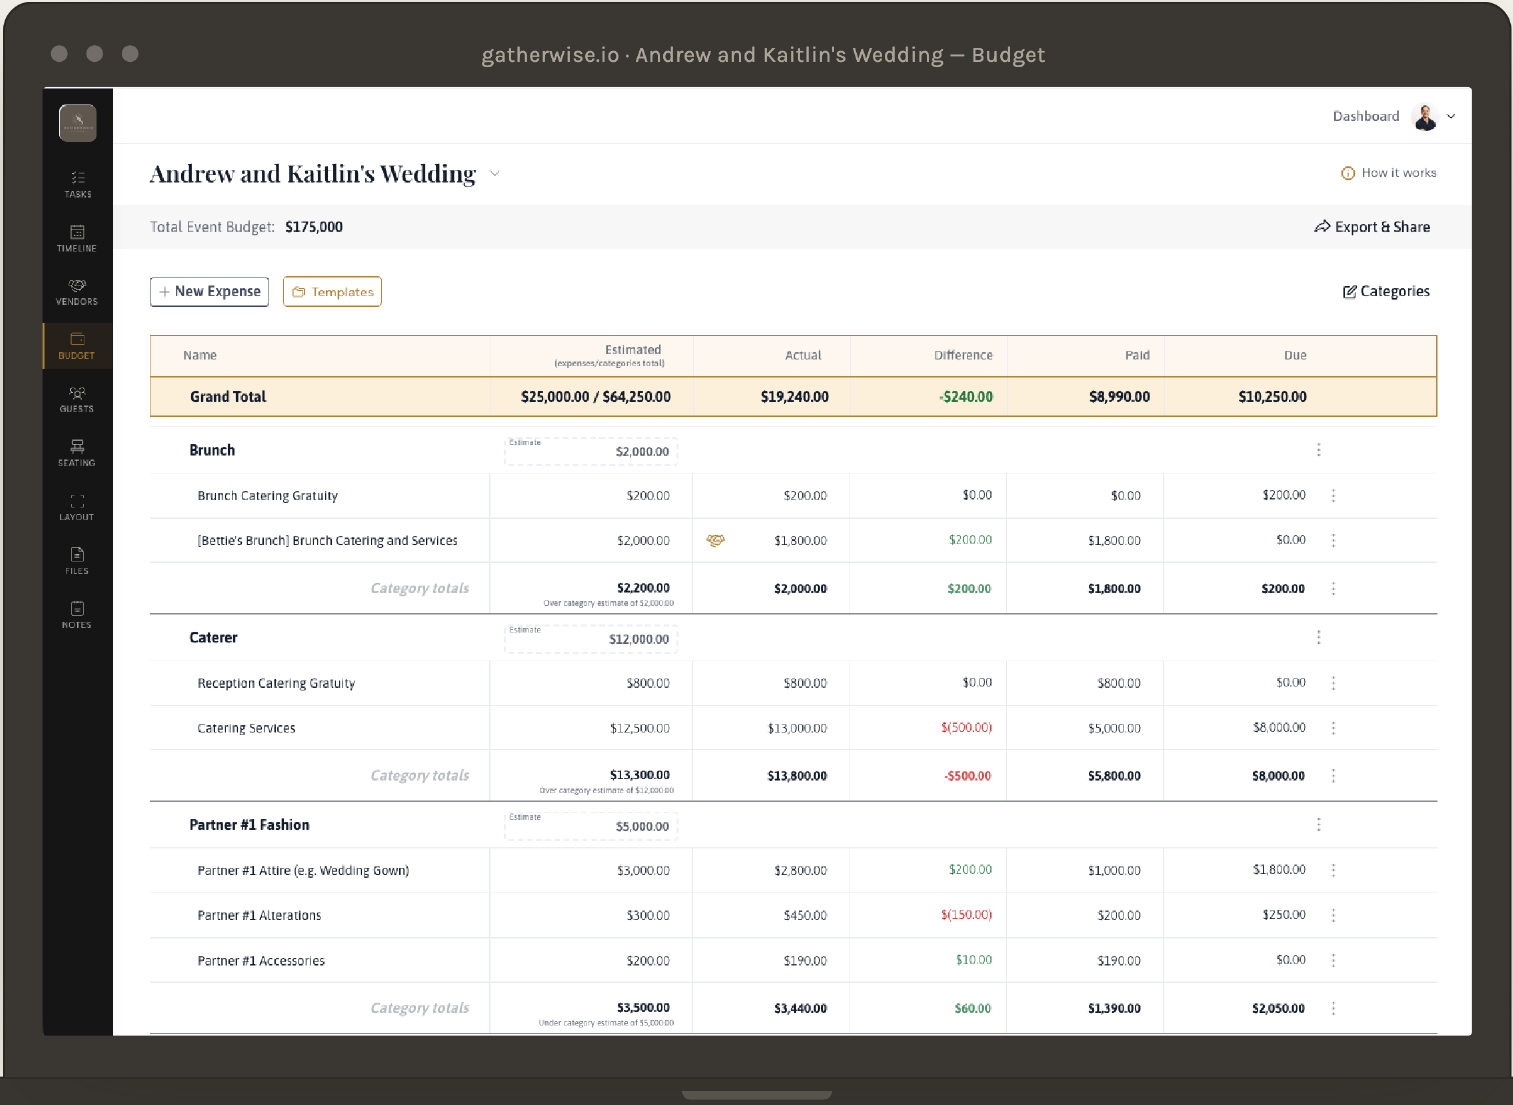
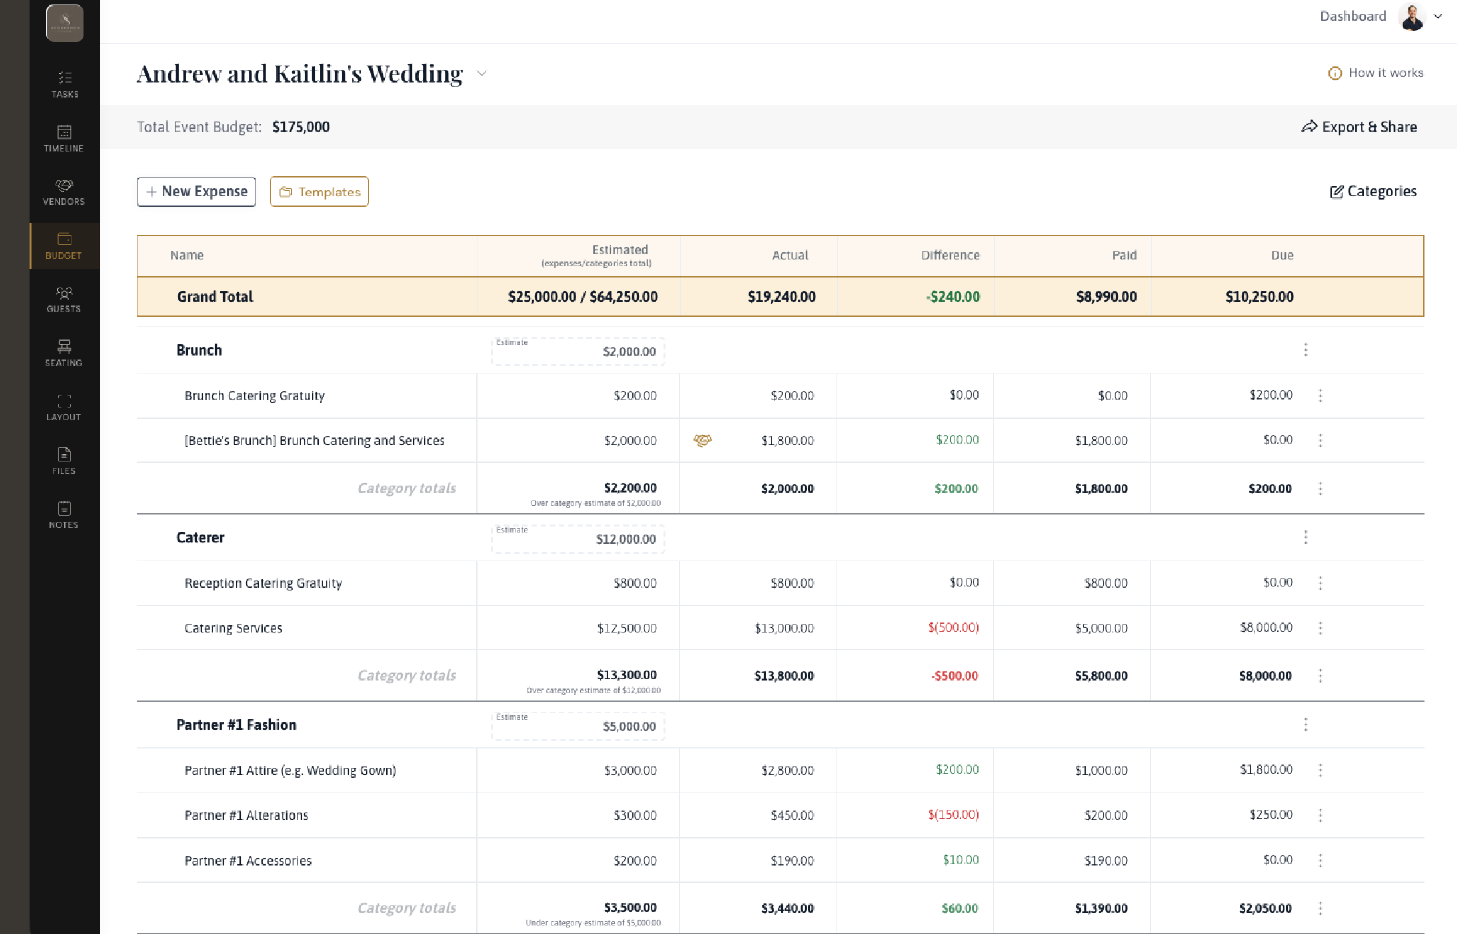
Crop laptop chrome from screenshots, move hero image beside the headline
- Re-cropped the four screenshots that had a baked-in browser/laptop
  mockup (seating, invoicing, budget, exports) down to just the app
  content, removing the surrounding chrome entirely.
- Restructured FeaturePage.tsx so the screenshot sits beside the
  headline in a two-column hero grid, matching the Timeline page,
  instead of a separate full-width showcase section further down.
  Every image now gets the same bordered-panel treatment (no more
  hasDesktopChrome branching, since none of them carry baked-in
  chrome anymore).

Claude-Session: https://claude.ai/code/session_01TEdLNtAhqta4EpWh8ZjWLY

diff --git a/app/features/FeaturePage.tsx b/app/features/FeaturePage.tsx
@@ -28,9 +28,6 @@ export type FeaturePageProps = {
   intro: string;
   screenshotSrc: string;
   screenshotAlt: string;
-  /** True when the screenshot already shows its own browser/laptop chrome —
-   * skips the added dark frame so it doesn't double up on window chrome. */
-  hasDesktopChrome?: boolean;
   details: FeatureDetail[];
 };
 
@@ -44,7 +41,6 @@ export default function FeaturePage({
   intro,
   screenshotSrc,
   screenshotAlt,
-  hasDesktopChrome = false,
   details,
 }: FeaturePageProps) {
   return (
@@ -76,34 +72,29 @@ export default function FeaturePage({
 
       <main>
         <section className={styles.hero}>
-          <div className={styles.wide}>
-            <div className={styles.eyebrow}>{eyebrow}</div>
-            <h1 className={styles.heroTitle}>{title}</h1>
-            <p className={styles.heroLede}>{intro}</p>
-            <div className={styles.heroActions}>
-              <a
-                href="https://app.gatherwise.io/login?m=signup"
-                className={styles.btnPrimaryLarge}
-              >
-                Start free trial
-              </a>
-              <a
-                href="https://calendly.com/alex-gatherwise/30min"
-                className={styles.btnGhost}
-                style={{ color: "var(--gw-ink)", borderColor: "rgb(var(--gw-ink-rgb) / 0.35)" }}
-              >
-                Talk to a human first
-              </a>
-            </div>
-          </div>
-        </section>
-
-        <section className={styles.showcase}>
-          <div className={styles.wide}>
-            <div className={styles.showcaseInner}>
-              <div className={hasDesktopChrome ? styles.showcaseBare : styles.showcaseFrame}>
-                <img src={screenshotSrc} alt={screenshotAlt} />
+          <div className={styles.heroGrid}>
+            <div className={styles.heroCopy}>
+              <div className={styles.eyebrow}>{eyebrow}</div>
+              <h1 className={styles.heroTitle}>{title}</h1>
+              <p className={styles.heroLede}>{intro}</p>
+              <div className={styles.heroActions}>
+                <a
+                  href="https://app.gatherwise.io/login?m=signup"
+                  className={styles.btnPrimaryLarge}
+                >
+                  Start free trial
+                </a>
+                <a
+                  href="https://calendly.com/alex-gatherwise/30min"
+                  className={styles.btnGhost}
+                  style={{ color: "var(--gw-ink)", borderColor: "rgb(var(--gw-ink-rgb) / 0.35)" }}
+                >
+                  Talk to a human first
+                </a>
               </div>
+            </div>
+            <div className={styles.heroPanel}>
+              <img src={screenshotSrc} alt={screenshotAlt} />
             </div>
           </div>
         </section>

diff --git a/app/features/features-shared.module.css b/app/features/features-shared.module.css
@@ -166,8 +166,18 @@
 /* ------------------------------------------------------------------- hero */
 
 .hero {
-  padding: var(--gw-section-y) max(var(--gw-gutter), calc((100% - 1180px) / 2))
-    clamp(40px, 5vw, 56px);
+  padding: var(--gw-section-y) max(var(--gw-gutter), calc((100% - 1180px) / 2));
+}
+
+.heroGrid {
+  display: grid;
+  grid-template-columns: repeat(auto-fit, minmax(320px, 1fr));
+  gap: 48px;
+  align-items: center;
+}
+
+.heroCopy {
+  min-width: 0;
 }
 
 .heroTitle {
@@ -179,14 +189,13 @@
   margin: 14px 0 0;
   text-wrap: pretty;
   color: var(--gw-ink);
-  max-width: 18ch;
 }
 
 .heroLede {
   font-size: 17.5px;
   line-height: 1.7;
   color: var(--gw-muted);
-  max-width: 46em;
+  max-width: 40em;
   margin: 22px 0 30px;
 }
 
@@ -197,40 +206,20 @@
   gap: 16px;
 }
 
-/* -------------------------------------------------------------- showcase */
-
-.showcase {
-  padding: 0 max(var(--gw-gutter), calc((100% - 1180px) / 2))
-    clamp(40px, 5vw, 56px);
+/* Screenshot beside the hero copy — every source image is already just the
+   app content (no browser/laptop chrome baked in), so a plain bordered panel
+   is enough; nothing needs an extra dark frame on top of it. */
+.heroPanel {
+  min-width: 0;
 }
 
-.showcaseInner {
-  max-width: 65%;
-  margin: 0 auto;
-}
-
-/* Used when the screenshot has no browser/laptop chrome baked in (a floating
-   card, a modal) — this wrapper supplies the "mounted on a page" framing. */
-.showcaseFrame {
-  background: #26221d;
-  border-radius: 10px;
-  padding: 10px 10px 20px;
-  box-shadow: 0 32px 70px -30px rgb(var(--gw-ink-rgb) / 0.45);
-}
-
-.showcaseFrame img {
+.heroPanel img {
   width: 100%;
   display: block;
-  border-radius: 4px;
-}
-
-/* Used when the screenshot already shows its own browser/laptop chrome —
-   no extra border or background, or it reads as a frame around a frame. */
-.showcaseBare img {
-  width: 100%;
-  display: block;
-  border-radius: 6px;
-  box-shadow: 0 32px 70px -30px rgb(var(--gw-ink-rgb) / 0.45);
+  background: var(--gw-cream);
+  border: 1px solid rgb(var(--gw-ink-rgb) / 0.1);
+  border-radius: 3px;
+  box-shadow: 0 24px 60px -32px rgb(var(--gw-ink-rgb) / 0.4);
 }
 
 /* --------------------------------------------------------------- details */

diff --git a/app/features/exports/page.tsx b/app/features/exports/page.tsx
@@ -40,7 +40,6 @@ export default function Page() {
       intro="Choose the sections to include — timeline, vendors, seating, guests, budget — preview it, and generate both a branded PDF and a live page in one step. Hand the couple a printed run of show, and keep the venue on the link so their copy never goes stale. Every export you have made stays listed for the event."
       screenshotSrc={`/images/features/${SLUG}.png`}
       screenshotAlt="The Gatherwise event export builder, choosing sections beside a live PDF and page preview"
-      hasDesktopChrome
       details={[
         {
           title: "Pick the sections",

diff --git a/app/features/budget/page.tsx b/app/features/budget/page.tsx
@@ -40,7 +40,6 @@ export default function Page() {
       intro="Estimated against actual, category by category, with paid and still due in the same row. Expenses link to the vendors they came from, so the grand total moves as invoices settle — and the whole sheet exports or shares when the client asks where things stand."
       screenshotSrc={`/images/features/${SLUG}.png`}
       screenshotAlt="A Gatherwise event budget broken out by category, showing estimated vs. actual, paid and due"
-      hasDesktopChrome
       details={[
         {
           title: "Estimate vs actual",

diff --git a/app/features/seating/page.tsx b/app/features/seating/page.tsx
@@ -40,7 +40,6 @@ export default function Page() {
       intro="Drag tables onto the room, seat guests by name, and color the seats by meal choice. Change the count and the chart changes with it — then export the room, or share a live link with the venue and the caterer."
       screenshotSrc={`/images/features/${SLUG}.png`}
       screenshotAlt="A Gatherwise seating chart with tables dragged onto a room layout, seats colored by meal choice"
-      hasDesktopChrome
       details={[
         {
           title: "Seat by name",

diff --git a/app/features/invoicing/page.tsx b/app/features/invoicing/page.tsx
@@ -40,7 +40,6 @@ export default function Page() {
       intro="Build the invoice on the event it belongs to, switch on the payment methods you want, and offer a lower price for bank transfer. What is quoted, paid and outstanding stays visible without a second accounting tool."
       screenshotSrc={`/images/features/${SLUG}.png`}
       screenshotAlt="The Gatherwise invoice creator, with payment methods and a live invoice preview"
-      hasDesktopChrome
       details={[
         {
           title: "Card or bank transfer",
